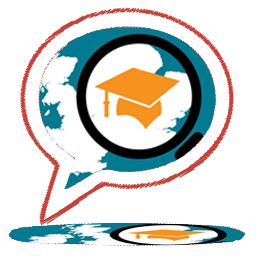
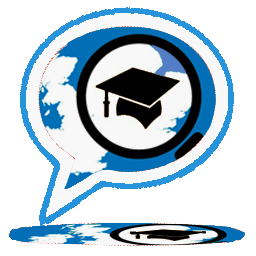
change a lot of things

Changed region(s): [[0.0312, 0.0312, 0.9375, 0.9688], [0.375, 0.8438, 0.9688, 0.9688]]

diff --git a/ocpstyles.css b/ocpstyles.css
@@ -1,16 +1,17 @@
 .logo{
-	height:250;
-	width:250;
-	margin-top:100;
+	height:250px;
+	width:250px;
+	margin-top:100px;
 }
 
 .font-welcome{
-	font:italic bold 25px Georgia;
-	color:#FF9900;
+	font-family: "Arial", Helvetica, sans-serif;
+	font-size:25px;
+	color:#0088cc;
 }
 
 .font-up{
-	font-family: Arial, "Helvetica Neue", Helvetica, sans-serif;
+	font-family: "Arial", Helvetica, sans-serif;
 	color:#3399FF;
 	font-size:15px;
 }
@@ -30,7 +31,7 @@
 }
 
 .headerstyle{
-	background-color:#1975D1;
+	background-color:#0088cc;
 	height:50px;
 }
 
@@ -40,9 +41,9 @@
 }
 
 .homefont{
-	font-family: Arial, "Helvetica Neue", Helvetica, sans-serif;
-	color:#FF9900;
-	font-size:25px;
+	font-family: "Arial", Helvetica, sans-serif;
+	color:white;
+	font-size:20px;
 	font-weight:bold;
 } 
 
@@ -53,19 +54,29 @@
 }
 
 .hyperlink{
-	font-family: Arial, "Helvetica Neue", Helvetica, sans-serif;
-	color:#FF9900;
-	font-size:15px;
-	font-weight:bold;
+	font-family:"Arial", Helvetica, sans-serif;
+	color:white;
+	font-size:13px;
 }
 
 .divleft{
-	width:150px;
-	margin-left: 50px;
+	width: 500;
+	margin-left: 10px;
+	margin-top: 10px;
 }
 
 .userpic{
 	width:40px;
 	height:40px;
 }
+
+.bread2{
+	float:right;
+	margin-top:15px;
+}
+
+.mynav{
+	width:200px;
+}
+
 

diff --git a/application/views/home.php b/application/views/home.php
@@ -1,30 +1,55 @@
-		<div id="header" class="headerstyle">
-			<span>
-				<img src="<?php echo base_url();?>images/e-course.png" alt="Course Portal" class="homelogo"/>
-			</span>
-			<span class="homefont">
-				ECourse Portal
-			</span>
-			<span class="bread">
-				<a href = "login.html" class="hyperlink">Logout</a> 
-			</span>
-			<span class="bread">
-				<a href = "registration.html" class="hyperlink">Account Settings</a>
-			</span>
-			<span class="bread">
-				<a href = "registration.html" class="hyperlink">Home</a>
-			</span>
-		</div>
-		<div class="divleft">
-			<span>
-				<img src="<?php echo base_url();?>images/aaron.jpg" alt="Aaron Espallardo" class="userpic"/>
-			</span>
-			<span>
-				Hello, Aaron!
-			</span>
-			<ul class="nav nav-list">
-				<li class="nav-header">Course</li>
-				<li class="active"><a href="#">Home</a></li>
-				<li><a href="#">Library</a></li>
-			</ul>
+	<div id="header" class="headerstyle">
+		<span>
+			<img src="<?php echo base_url();?>images/e-course.png" alt="Course Portal" class="homelogo"/>
+		</span>
+		<span class="homefont">
+			ONLINE COURSE PORTAL
+		</span>
+		<span class="bread">
+			<a href = "login.html" class="hyperlink">Logout</a> 
+		</span>
+		<span class="bread2">
+			<i class="icon-off icon-white"></i>
+		</span>
+		<span class="bread">
+			<a href = "registration.html" class="hyperlink">Account Settings</a>
+		</span>
+		<span class="bread2">
+			<i class="icon-cog icon-white"></i>
+		</span>
+		<span class="bread">
+			<a href = "registration.html" class="hyperlink">Home</a>
+		</span>
+		<span class="bread2">
+			<i class="icon-home icon-white"></i>
+		</span>
+	</div>
+	<div class="divleft">
 		<div>
+			<div class="row">
+		    	<div class="span2">
+		      	<img src="<?php echo base_url();?>images/aaron.jpg" alt="Aaron Espallardo" class="img-rounded ">
+		    	</div>
+			    <div class="span4">
+			      	<blockquote>
+			        	<p>Aaron Kevin V. Espallardo</p>
+			        	<small><cite title="Source Title">Manila, Philippines<i class="icon-map-marker"></i></cite></small>
+			      	</blockquote>
+			      		<p>
+			      			<i class="icon-book"></i> Computer Engineering <br>
+					        <i class="icon-envelope"></i> aaron@yahoo.com <br>
+					        <i class="icon-gift"></i> September 7, 1993
+			      		</p>
+			    </div>
+		    </div>
+		</div>
+		<div class="mynav">
+		  	<ul class="nav nav-list">
+				<li class="nav-header">Activities</li>
+				<li class="active"><a href="#">Discussion Board</a></li>
+				<li><a href="#">Announcements</a></li>
+				<li><a href="#">Quiz</a></li>
+				<li><a href="#">Files</a></li>
+		   </ul>
+		</div>
+	</div>

diff --git a/application/views/signup.php b/application/views/signup.php
@@ -4,12 +4,12 @@
 			  <fieldset>
 				<legend>Registration</legend>
 				<div class="subdivision">
-					<label>Sign up as</label>
+					<label>Sign up as*</label>
 					<select name="user_type" class="span2">
 						<option value = "1">Student</option>
 						<option value = "2">Faculty</option>
 					</select>
-					<label>&nbsp&nbsp&nbspCourse</label>
+					<label>&nbsp&nbsp&nbspCourse*</label>
 					<select name="course" class="span4">
 
 						<?php
@@ -21,9 +21,9 @@
 					</select>
 				</div>
 				<div class="subdivision">
-					<label>First Name</label>
+					<label>First Name*</label>
 					<?php echo form_input('first_name', set_value('first_name',''),'placeholder="First Name"'); ?>
-					<label>&nbsp&nbsp&nbspLast Name</label>
+					<label>&nbsp&nbsp&nbspLast Name*</label>
 					<?php echo form_input('last_name', set_value('last_name',''),'placeholder="Last Name"'); ?>
 					</br>
 				</div>
@@ -40,20 +40,20 @@
 					<input class="span2" type="text" name="contact_number" placeholder="Contact Number">
 				</div>
 				<div class="subdivision">
-					<label>Email Address</label>
+					<label>Email Address*</label>
 					<?php echo form_input('email', set_value('email',''),'placeholder="Email"'); ?>
-					<label>&nbsp&nbsp&nbspUsername</label>
+					<label>&nbsp&nbsp&nbspUsername*</label>
 					<?php echo form_input('username', set_value('username',''),'placeholder="Username"'); ?>
 				</div>
 				<div class="subdivision">
-					<label>Password</label>
+					<label>Password*</label>
 					<input class="span3" type="password" name="password" placeholder="password">
-					<label>&nbsp&nbsp&nbspConfirm password</label>
+					<label>&nbsp&nbsp&nbspConfirm password*</label>
 					<input class="span3" type="password" name="password2" placeholder="password">
 				</div>
 				<div class="btn-group">
-				<button type="submit" class="btn btn-primary btn-warning">Register</button>
-				<button type="submit" class="btn btn-primary btn-danger">Cancel</button>
+				<button type="submit" class="btn btn-primary">Register</button>
+				<button type="submit" class="btn btn-primary">Cancel</button>
 				</div>
 			  </fieldset>
 			</form>

diff --git a/application/views/login.php b/application/views/login.php
@@ -17,14 +17,15 @@
 							<td><input type="password" name = "password" placeholder="********"></td>
 						</tr>
 					</table>
-					<input type="submit" class="btn btn-primary btn-warning" value="Login"/>
+					<input type="submit" class="btn btn-primary" value="Login"/>
 				</form>
 			</div>
 			
 			<div>
 				<table class="logintable">
 					<tr>
-						<td><a href = "registration.html">Having problem loggin in?&nbsp&nbsp&nbsp&nbsp&nbsp</a></td>
+						<td><a href = "registration.html">Having problem loggin in?</a></td>
+						<td>&nbsp&nbsp&nbsp&nbsp&nbsp</td>
 						<td>	<?php echo anchor('login/signup', 'Create Account'); ?></td>
 					</tr>
 				<table>
